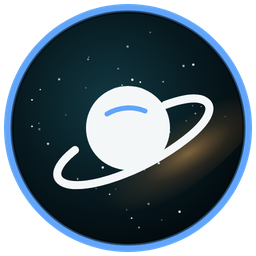
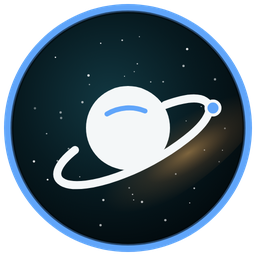
feat(brand): 🎞 animated emblems for the card thumbnails

diff --git a/tools/emblems.py b/tools/emblems.py
@@ -1,11 +1,14 @@
-"""Astrocorp emblems for the Discord notifications: one round badge per division, SVG then PNG.
+"""Astrocorp emblems for the Discord notifications: one round badge per division.
 
-    python tools/emblems.py     -> svg/<division>.svg, discord/<division>.png (256 px)
+    python tools/emblems.py     -> svg/<division>.svg, discord/<division>.png (256 px, still),
+                                   discord/<division>.gif (160 px, animated loop)
 
-Night sky of the homelab portal (dark teal, stars, amber Milky Way core), a ring in the division
-accent, a white glyph. Rendered to PNG by headless Chrome (CHROME to override its path): Discord
-does not show SVG avatars.
+Night sky of the homelab portal (dark teal, twinkling stars, amber Milky Way core), a ring in the
+division accent, a white glyph that moves. Rendered by headless Chrome (CHROME to override its
+path): every frame of a loop is drawn on one page, then cut and assembled. Discord shows neither
+SVG nor animated avatars: the still PNG is the avatar, the GIF the card thumbnail.
 """
+import math
 import os
 import pathlib
 import random
@@ -16,6 +19,7 @@ from PIL import Image
 ROOT = pathlib.Path(__file__).resolve().parent.parent
 CHROME = os.environ.get("CHROME", r"C:\Program Files\Google\Chrome\Application\chrome.exe")
 SIZE = 512
+FRAMES, FRAME_MS, GIF_SIZE = 30, 70, 160
 
 DIVISIONS = {
     # slug: (name, accent, glyph)
@@ -29,56 +33,113 @@ DIVISIONS = {
 }
 
 W = 'fill="none" stroke="#f4f7f8" stroke-linecap="round" stroke-linejoin="round"'
-GLYPHS = {
-    # Observatory: an orbit around a planet, a satellite on it
-    "observatory": f'''<ellipse cx="256" cy="256" rx="150" ry="62" transform="rotate(-24 256 256)" {W} stroke-width="16"/>
-      <circle cx="256" cy="256" r="58" fill="#f4f7f8"/>
-      <circle cx="384" cy="196" r="20" fill="{{accent}}" stroke="#f4f7f8" stroke-width="8"/>''',
-    # Shield with a four-pointed star
-    "shield": f'''<path d="M256 108 L370 150 V250 C370 330 318 382 256 410 C194 382 142 330 142 250 V150 Z" {W} stroke-width="18"/>
-      <path d="M256 186 L272 240 L326 256 L272 272 L256 326 L240 272 L186 256 L240 240 Z" fill="#f4f7f8"/>''',
-    # Rocket
-    "rocket": f'''<path d="M256 104 C306 150 326 214 318 300 L194 300 C186 214 206 150 256 104 Z" {W} stroke-width="16"/>
-      <circle cx="256" cy="204" r="26" fill="{{accent}}" stroke="#f4f7f8" stroke-width="8"/>
-      <path d="M194 262 L150 318 L194 312 M318 262 L362 318 L318 312" {W} stroke-width="14"/>
-      <path d="M226 318 C232 352 244 372 256 392 C268 372 280 352 286 318" fill="{{accent}}" stroke="#f4f7f8" stroke-width="8" stroke-linejoin="round"/>''',
-    # Ringed planet
-    "planet": f'''<circle cx="256" cy="256" r="84" fill="#f4f7f8"/>
+TAU = 2 * math.pi
+
+
+def wave(t, phase=0.0):
+    """0..1 then back, once per loop."""
+    return 0.5 - 0.5 * math.cos(TAU * (t + phase))
+
+
+# Glyphs: functions of the loop position t in [0, 1); t = 0 is the still emblem
+def observatory(a, t):
+    # Satellite on the orbit; behind the planet on the far half of the ellipse
+    ang = TAU * t - 0.6
+    x, y = 150 * math.cos(ang), 62 * math.sin(ang)
+    r = math.radians(-24)
+    sx, sy = 256 + x * math.cos(r) - y * math.sin(r), 256 + x * math.sin(r) + y * math.cos(r)
+    sat = f'<circle cx="{sx:.1f}" cy="{sy:.1f}" r="20" fill="{a}" stroke="#f4f7f8" stroke-width="8"/>'
+    behind = math.sin(ang) < 0
+    orbit = f'<ellipse cx="256" cy="256" rx="150" ry="62" transform="rotate(-24 256 256)" {W} stroke-width="16"/>'
+    planet = '<circle cx="256" cy="256" r="58" fill="#f4f7f8"/>'
+    return orbit + (sat + planet if behind else planet + sat)
+
+
+def shield(a, t):
+    s = 1 + 0.12 * wave(t)
+    shine_x = -160 + 520 * t
+    return f'''<defs><clipPath id="sh"><path d="M256 108 L370 150 V250 C370 330 318 382 256 410 C194 382 142 330 142 250 V150 Z"/></clipPath></defs>
+      <g clip-path="url(#sh)"><rect x="{shine_x:.1f}" y="60" width="46" height="420" fill="{a}" opacity=".35" transform="rotate(24 256 256)"/></g>
+      <path d="M256 108 L370 150 V250 C370 330 318 382 256 410 C194 382 142 330 142 250 V150 Z" {W} stroke-width="18"/>
+      <g transform="translate(256 256) scale({s:.3f}) translate(-256 -256)"><path d="M256 186 L272 240 L326 256 L272 272 L256 326 L240 272 L186 256 L240 240 Z" fill="#f4f7f8"/></g>'''
+
+
+def rocket(a, t):
+    dy = -8 * math.sin(TAU * t)
+    f = 1 + 0.25 * math.sin(TAU * 3 * t) * 0.8
+    return f'''<g transform="translate(0 {dy:.1f})">
+      <path d="M226 318 C232 {318 + 34 * f:.1f} 244 {318 + 54 * f:.1f} 256 {318 + 74 * f:.1f} C268 {318 + 54 * f:.1f} 280 {318 + 34 * f:.1f} 286 318" fill="{a}" stroke="#f4f7f8" stroke-width="8" stroke-linejoin="round"/>
+      <path d="M256 104 C306 150 326 214 318 300 L194 300 C186 214 206 150 256 104 Z" fill="#071a20" {W.replace('fill="none" ', '')} stroke-width="16"/>
+      <circle cx="256" cy="204" r="26" fill="{a}" stroke="#f4f7f8" stroke-width="8"/>
+      <path d="M194 262 L150 318 L194 312 M318 262 L362 318 L318 312" {W} stroke-width="14"/></g>'''
+
+
+def planet(a, t):
+    ang = TAU * t
+    mx, my = 256 + 170 * math.cos(ang), 256 + 54 * math.sin(ang) - 40
+    moon = f'<circle cx="{mx:.1f}" cy="{my:.1f}" r="14" fill="{a}" stroke="#f4f7f8" stroke-width="6"/>'
+    body = f'''<circle cx="256" cy="256" r="84" fill="#f4f7f8"/>
       <path d="M150 300 C112 330 104 356 128 366 C170 384 288 344 372 278 C416 244 430 214 410 202 C394 192 362 198 330 210" {W} stroke-width="16"/>
-      <path d="M214 228 C238 214 266 212 290 222" fill="none" stroke="{{accent}}" stroke-width="10" stroke-linecap="round"/>''',
-    # Comet going up: head and trail
-    "comet": f'''<path d="M150 380 L322 208" {W} stroke-width="14" opacity=".55"/>
-      <path d="M186 392 L330 248" {W} stroke-width="10" opacity=".35"/>
-      <path d="M138 344 L286 196" {W} stroke-width="10" opacity=".35"/>
-      <circle cx="338" cy="190" r="46" fill="#f4f7f8"/>
-      <path d="M338 166 V214 M314 190 L338 166 L362 190" fill="none" stroke="{{accent}}" stroke-width="12" stroke-linecap="round" stroke-linejoin="round"/>''',
-    # Jarvis, the morning butler: a sun rising over the horizon of a planet
-    "sunrise": f'''<circle cx="256" cy="262" r="64" fill="{{accent}}"/>
-      <path d="M256 158 V126 M186 186 L164 164 M326 186 L348 164 M156 262 H124 M356 262 H388" {W} stroke-width="14"/>
+      <path d="M214 228 C238 214 266 212 290 222" fill="none" stroke="{a}" stroke-width="10" stroke-linecap="round"/>'''
+    return (moon + body) if math.sin(ang) < 0 else (body + moon)
+
+
+def comet(a, t):
+    # The comet travels up the diagonal and comes back from the corner, trails flickering
+    k = (t * 1.0) % 1.0
+    off = -60 + 120 * k
+    head = f'<circle cx="{338 + off:.1f}" cy="{190 - off:.1f}" r="46" fill="#f4f7f8"/>'
+    arrow = f'<path d="M{338 + off:.1f} {166 - off:.1f} V{214 - off:.1f} M{314 + off:.1f} {190 - off:.1f} L{338 + off:.1f} {166 - off:.1f} L{362 + off:.1f} {190 - off:.1f}" fill="none" stroke="{a}" stroke-width="12" stroke-linecap="round" stroke-linejoin="round"/>'
+    trails = "".join(
+        f'<path d="M{x1 + off:.1f} {y1 - off:.1f} L{x2 + off:.1f} {y2 - off:.1f}" {W} stroke-width="{w}" opacity="{o * (0.6 + 0.4 * wave(t, p)):.2f}"/>'
+        for (x1, y1, x2, y2, w, o, p) in [(150, 380, 322, 208, 14, .55, 0), (186, 392, 330, 248, 10, .35, .3), (138, 344, 286, 196, 10, .35, .6)])
+    fade = min(1.0, 4 * min(k, 1 - k) + 0.15)
+    return f'<g opacity="{fade:.2f}">{trails}{head}{arrow}</g>'
+
+
+def seal(a, t):
+    s = 1 + 0.18 * wave(t)
+    rot = -12 + 8 * math.sin(TAU * t)
+    return f'''<path d="M170 380 L256 132 L342 380" {W} stroke-width="22"/>
+      <ellipse cx="256" cy="300" rx="132" ry="34" transform="rotate({rot:.1f} 256 300)" fill="none" stroke="{a}" stroke-width="12" stroke-dasharray="60 18" stroke-dashoffset="{-78 * t * 4:.1f}"/>
+      <g transform="translate(256 114) scale({s:.3f}) rotate({45 * t:.1f}) translate(-256 -114)"><path d="M256 70 L266 104 L300 114 L266 124 L256 158 L246 124 L212 114 L246 104 Z" fill="#f4f7f8"/></g>'''
+
+
+def sunrise(a, t):
+    s = 1 + 0.06 * wave(t)
+    rays = "".join(
+        f'<path d="M256 {262 - 92 - 10 * wave(t, i / 7):.1f} V{262 - 120 - 10 * wave(t, i / 7):.1f}" {W} stroke-width="14" transform="rotate({ang} 256 262)"/>'
+        for i, ang in enumerate(range(-90, 91, 30)))
+    return f'''<g transform="rotate({12 * math.sin(TAU * t):.1f} 256 262)">{rays}</g>
+      <g transform="translate(256 262) scale({s:.3f}) translate(-256 -262)"><circle cx="256" cy="262" r="64" fill="{a}"/></g>
       <g clip-path="url(#disc)"><circle cx="256" cy="610" r="300" fill="#071a20" stroke="#f4f7f8" stroke-width="14"/>
-      <path d="M120 360 C200 336 312 336 392 360" fill="none" stroke="{{accent}}" stroke-width="8" stroke-linecap="round" opacity=".6"/></g>''',
-    # Astrocorp seal: an A circled by an orbit, a star above it
-    "seal": f'''<path d="M170 380 L256 132 L342 380" {W} stroke-width="22"/>
-      <ellipse cx="256" cy="300" rx="132" ry="34" transform="rotate(-12 256 300)" fill="none" stroke="{{accent}}" stroke-width="12"/>
-      <path d="M256 70 L266 104 L300 114 L266 124 L256 158 L246 124 L212 114 L246 104 Z" fill="#f4f7f8"/>''',
-}
+      <path d="M120 360 C200 336 312 336 392 360" fill="none" stroke="{a}" stroke-width="8" stroke-linecap="round" opacity="{.4 + .4 * wave(t):.2f}"/></g>'''
 
 
-def stars(seed):
-    """Stars inside the disc, the same for a division at every run."""
+GLYPHS = {"observatory": observatory, "shield": shield, "rocket": rocket, "planet": planet,
+          "comet": comet, "seal": seal, "sunrise": sunrise}
+# Moment of the loop drawn for the still emblem (the comet is fading out at t = 0)
+STILL = {"comet": 0.5}
+
+
+def stars(seed, t):
+    """Stars inside the disc, the same for a division at every run, twinkling over the loop."""
     rng = random.Random(seed)
     out = []
     for _ in range(70):
         x, y = rng.uniform(40, 472), rng.uniform(40, 472)
+        r, base, phase = rng.choice([1.1, 1.4, 1.8, 2.4]), rng.uniform(.35, .95), rng.random()
         if (x - 256) ** 2 + (y - 256) ** 2 > 205 ** 2:
             continue
-        r = rng.choice([1.1, 1.4, 1.8, 2.4])
-        out.append(f'<circle cx="{x:.1f}" cy="{y:.1f}" r="{r}" fill="#ffffff" opacity="{rng.uniform(.35, .95):.2f}"/>')
+        o = base * (0.45 + 0.55 * wave(t, phase)) if t is not None else base
+        out.append(f'<circle cx="{x:.1f}" cy="{y:.1f}" r="{r}" fill="#ffffff" opacity="{o:.2f}"/>')
     return "".join(out)
 
 
-def svg(slug, accent, glyph):
-    return f'''<svg xmlns="http://www.w3.org/2000/svg" width="{SIZE}" height="{SIZE}" viewBox="0 0 512 512">
+def svg(slug, accent, glyph, t=None, size=SIZE):
+    tt = STILL.get(glyph, 0.0) if t is None else t
+    glow = 1.0 if t is None else 0.85 + 0.15 * wave(t)
+    return f'''<svg xmlns="http://www.w3.org/2000/svg" width="{size}" height="{size}" viewBox="0 0 512 512">
   <defs>
     <radialGradient id="sky" cx="42%" cy="38%" r="70%">
       <stop offset="0" stop-color="#123842"/><stop offset=".55" stop-color="#071a20"/><stop offset="1" stop-color="#02080b"/>
@@ -90,27 +151,40 @@ def svg(slug, accent, glyph):
   </defs>
   <circle cx="256" cy="256" r="248" fill="{accent}"/>
   <circle cx="256" cy="256" r="232" fill="url(#sky)"/>
-  <g clip-path="url(#disc)"><ellipse cx="300" cy="320" rx="260" ry="90" transform="rotate(-32 300 320)" fill="url(#core)"/>{stars(slug)}</g>
+  <g clip-path="url(#disc)"><ellipse cx="300" cy="320" rx="260" ry="90" transform="rotate(-32 300 320)" fill="url(#core)" opacity="{glow:.2f}"/>{stars(slug, t)}</g>
   <circle cx="256" cy="256" r="232" fill="none" stroke="#02080b" stroke-width="6" opacity=".6"/>
-  {GLYPHS[glyph].replace("{accent}", accent)}
+  {GLYPHS[glyph](accent, tt)}
 </svg>
 '''
 
 
+def chrome(page: pathlib.Path, shot: pathlib.Path, width: int, height: int):
+    subprocess.run([CHROME, "--headless=new", "--disable-gpu", "--hide-scrollbars", "--default-background-color=00000000",
+                    f"--window-size={width},{height}", f"--screenshot={shot}", page.as_uri()], check=True, capture_output=True)
+
+
 def main():
+    work = ROOT / "discord"
     for slug, (name, accent, glyph) in DIVISIONS.items():
         drawing = svg(slug, accent, glyph)
         (ROOT / "svg" / f"{slug}.svg").write_text(drawing, encoding="utf-8", newline="\n")
-        page = ROOT / "discord" / f"{slug}.html"
+        # Still emblem (avatar)
+        page, shot = work / f"{slug}.html", work / f"{slug}-shot.png"
         page.write_text(f'<html><body style="margin:0;background:transparent">{drawing}</body></html>', encoding="utf-8")
-        big = ROOT / "discord" / f"{slug}-512.png"
-        subprocess.run([CHROME, "--headless=new", "--disable-gpu", "--hide-scrollbars", "--default-background-color=00000000",
-                        f"--window-size={SIZE},{SIZE}", f"--screenshot={big}", page.as_uri()], check=True, capture_output=True)
+        chrome(page, shot, SIZE, SIZE)
+        Image.open(shot).convert("RGBA").resize((256, 256), Image.LANCZOS).save(work / f"{slug}.png", optimize=True)
+        # Animated loop: every frame on one page (a column), one screenshot, then cut
+        size = GIF_SIZE * 2
+        frames_svg = "".join(f'<div style="height:{size}px">{svg(slug, accent, glyph, i / FRAMES, size)}</div>' for i in range(FRAMES))
+        page.write_text(f'<html><body style="margin:0;background:transparent">{frames_svg}</body></html>', encoding="utf-8")
+        chrome(page, shot, size, size * FRAMES)
+        sheet = Image.open(shot).convert("RGBA")
+        frames = [sheet.crop((0, i * size, size, (i + 1) * size)).resize((GIF_SIZE, GIF_SIZE), Image.LANCZOS) for i in range(FRAMES)]
+        frames[0].save(work / f"{slug}.gif", save_all=True, append_images=frames[1:], duration=FRAME_MS, loop=0,
+                       disposal=2, optimize=True)
         page.unlink()
-        # Discord shows avatars at 40 px and author icons at 24 px: 256 px is plenty
-        Image.open(big).convert("RGBA").resize((256, 256), Image.LANCZOS).save(ROOT / "discord" / f"{slug}.png", optimize=True)
-        big.unlink()
-        print(f"{name}: discord/{slug}.png")
+        shot.unlink()
+        print(f"{name}: discord/{slug}.png, discord/{slug}.gif ({(work / f'{slug}.gif').stat().st_size // 1024} Ko)")
 
 
 if __name__ == "__main__":

diff --git a/README.md b/README.md
@@ -30,9 +30,9 @@ Fond commun : le ciel nocturne du portail Homepage (bleu-vert profond, étoiles,
 
 | Chemin | Rôle |
 |---|---|
-| `tools/emblems.py` | dessine les emblèmes (SVG), puis les convertit en PNG par Chrome sans écran |
+| `tools/emblems.py` | dessine les emblèmes (SVG), puis les convertit en PNG fixe et en GIF animé par Chrome sans écran |
 | `svg/` | emblèmes vectoriels, source de vérité |
-| `discord/` | emblèmes PNG 256 px, servis par `https://cdn.jsdelivr.net/gh/Astr0corp/<dépôt>@<étiquette>/discord/<division>.png` |
+| `discord/` | emblèmes fixes (PNG 256 px, avatars) et animés (GIF 160 px, vignettes des cartes), servis par `https://cdn.jsdelivr.net/gh/Astr0corp/<dépôt>@<étiquette>/discord/<division>.png` ou `.gif` |
 
 ## Publier une nouvelle version
 
